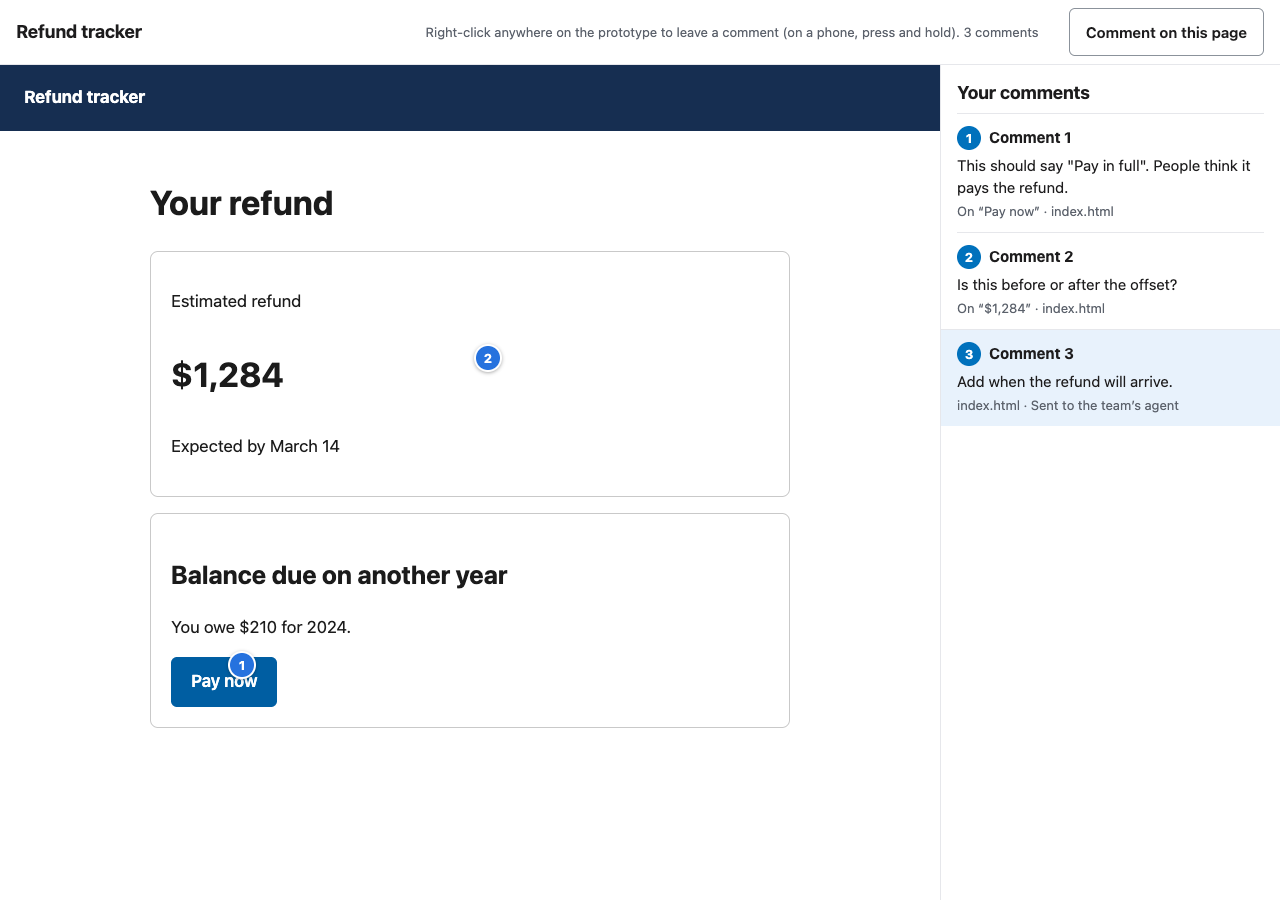
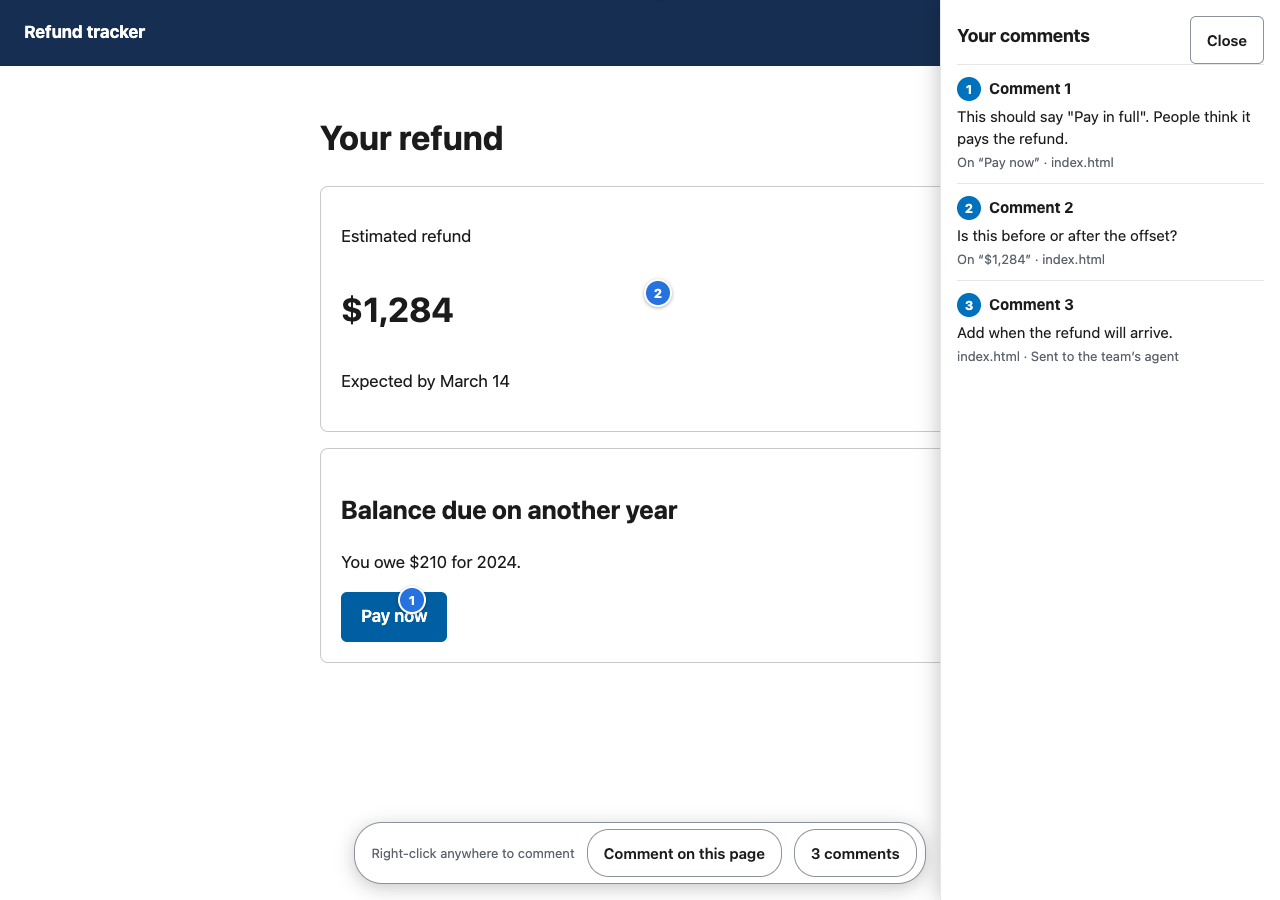
Prototype reviews: comments go to the chat, not To-dos; the reviewer sees the prototype full screen
One person lives in the prototype's chat: comments arrive there and they
decide (hand to the agent, or set aside). Nothing is filed as a to-do, and
the alert opens the chat. The business owner's page is the prototype and
nothing else: right-click to comment, pins where comments were made, and a
small bar whose count opens the list.

diff --git a/app/src/components/ReviewComments.tsx b/app/src/components/ReviewComments.tsx
@@ -7,14 +7,15 @@ import { commentBy, waitingLine, type PinnedComment } from "../lib/prototype-rev
 import { createThemedStyles, radius, space, typography, useTheme } from "../lib/theme";
 
 // What reviewers said about this chat's prototype, waiting above the message box until the person whose chat it is
-// decides (docs/prototype-reviews.md). "Ask Agent to work on this" sends the comment to Agent as a message in this
-// chat; from then on it is in the conversation like any other, and leaves this list. The newest shows; the rest
+// decides (docs/prototype-reviews.md). The chat is the one place a prototype's work happens, so comments come here
+// and nowhere else. "Ask Agent to work on this" sends the comment to Agent as a message in this chat; "Set aside" is
+// for one the person dealt with themselves. Either way it leaves this list. The newest shows; the rest
 // open from the line above it.
 export function ReviewComments({ account, chatId, comments, onAsked }: {
   account: Account; chatId: string;
   /** The comments nobody has handed to Agent yet, oldest first. */
   comments: readonly PinnedComment[];
-  /** A comment was handed over: the chat has a new message and the list is out of date. */
+  /** A comment was handed over or set aside: the list is out of date, and the chat may have a new message. */
   onAsked: (commentId: string) => void;
 }) {
   const styles = useStyles();
@@ -28,6 +29,13 @@ export function ReviewComments({ account, chatId, comments, onAsked }: {
     setBusy(comment.id); setError("");
     try { await api.workOnPrototypeComment(account, chatId, comment.id); onAsked(comment.id); }
     catch (reason) { setError(reason instanceof ServerError ? reason.message : "Couldn't ask Agent. Try again."); }
+    finally { setBusy(null); }
+  };
+  const aside = async (comment: PinnedComment) => {
+    if (busy) return;
+    setBusy(`aside:${comment.id}`); setError("");
+    try { await api.setPrototypeCommentAside(account, chatId, comment.id); onAsked(comment.id); }
+    catch (reason) { setError(reason instanceof ServerError ? reason.message : "Couldn't set that aside. Try again."); }
     finally { setBusy(null); }
   };
   const shown = open ? comments : comments.slice(-1);
@@ -44,6 +52,7 @@ export function ReviewComments({ account, chatId, comments, onAsked }: {
       <Text selectable style={styles.text}>{comment.text}</Text>
       <View style={styles.actions}>
         <Button testID={`review-work-${comment.id}`} label="Ask Agent to work on this" accessibilityLabel={`Ask Agent to work on ${comment.email}'s comment: ${comment.text.slice(0, 80)}`} kind="secondary" compact busy={busy === comment.id} disabled={!!busy} onPress={() => void ask(comment)} />
+        <Button testID={`review-aside-${comment.id}`} label="Set aside" accessibilityLabel={`Set aside ${comment.email}'s comment: ${comment.text.slice(0, 80)}`} kind="link" compact busy={busy === `aside:${comment.id}`} disabled={!!busy} onPress={() => void aside(comment)} />
       </View>
     </View>)}
     {error ? <Text accessibilityRole="alert" style={styles.error}>{error}</Text> : null}
@@ -58,6 +67,6 @@ const useStyles = createThemedStyles(({ colors }) => StyleSheet.create({
   comment: { gap: space.xxs, paddingLeft: space.sm, borderLeftWidth: 2, borderLeftColor: colors.line },
   by: { ...typography.caption, color: colors.muted },
   text: { ...typography.body, color: colors.ink },
-  actions: { flexDirection: "row" },
+  actions: { flexDirection: "row", flexWrap: "wrap", alignItems: "center", columnGap: space.sm },
   error: { ...typography.caption, color: colors.red },
 }));

diff --git a/app/src/lib/server.ts b/app/src/lib/server.ts
@@ -89,7 +89,7 @@ export type Entitlement = { /** Built in: on every server, asked for by use. */ 
 export type AgentAction = { seq: number; userId: string; name: string; chatId?: string; needs: string[]; verdict: "allowed" | "allowed-once" | "allowed-owner" | "denied" | "waiting"; detail: string; at: number };
 export type PrototypeComment = { id: string; page: string; /** Where on the page, as a share of its width and height. */ x?: number; y?: number; anchor: string; text: string; createdAt: number; todoId?: string;
   /** When the comment was handed to the agent in the prototype's chat, and whether you did it or it happened by itself. */
-  askedAt?: number; askedBy?: "you" | "auto"; turnId?: string };
+  askedAt?: number; askedBy?: "you" | "auto"; turnId?: string; /** When you set it aside: dealt with some other way than the agent. */ setAsideAt?: number };
 export type PrototypeShare = { id: string; email: string; createdAt: number; verifiedAt?: number; lastSeenAt?: number; endedAt?: number; /** The agent starts on this person's comments as they arrive. */ autoWork?: boolean; comments: PrototypeComment[] };
 export type EntitlementDraft = { name: string; description: string; hosts: string[]; confirmation: string };
 export type EntitlementsPage = { /** Whether built-in entitlements are checked before the agent acts. */ capabilities?: { mode: "ask" | "off" }; entitlements: Entitlement[]; canCreate: boolean; waiting: number; manager: { id: string; name: string } | null; reports: { id: string; name: string }[];
@@ -490,6 +490,8 @@ export const api = {
   sharePrototype: (a: Account, id: string, email: string) => request(a, `/v1/chats/${encodeURIComponent(id)}/prototype/shares`, { method: "POST", body: JSON.stringify({ email }) }).then(json<{ shares: PrototypeShare[] }>),
   /** Whether the agent starts on one reviewer's comments as they arrive. */
   setPrototypeShareAutoWork: (a: Account, id: string, shareId: string, autoWork: boolean) => request(a, `/v1/chats/${encodeURIComponent(id)}/prototype/shares/${encodeURIComponent(shareId)}`, { method: "PATCH", body: JSON.stringify({ autoWork }) }).then(json<{ shares: PrototypeShare[] }>),
+  /** You dealt with a comment yourself: it leaves the chat's waiting list. */
+  setPrototypeCommentAside: (a: Account, id: string, commentId: string) => request(a, `/v1/chats/${encodeURIComponent(id)}/prototype/comments/${encodeURIComponent(commentId)}/set-aside`, { method: "POST", body: "{}" }).then(json<{ comment: { id: string; setAsideAt: number } }>),
   /** Hand one reviewer's comment to the agent, as a message in the prototype's chat. */
   workOnPrototypeComment: (a: Account, id: string, commentId: string) => request(a, `/v1/chats/${encodeURIComponent(id)}/prototype/comments/${encodeURIComponent(commentId)}/work`, { method: "POST", body: "{}" }).then(json<{ comment: { id: string; askedAt: number } }>),
   endPrototypeShare: (a: Account, id: string, shareId: string) => request(a, `/v1/chats/${encodeURIComponent(id)}/prototype/shares/${encodeURIComponent(shareId)}`, { method: "DELETE" }).then(json<{ shares: PrototypeShare[] }>),

diff --git a/app/src/lib/prototype-reviews.test.ts b/app/src/lib/prototype-reviews.test.ts
@@ -45,9 +45,9 @@ test("the builder's preview numbers every reviewer's comments in the order they 
 });
 
 test("comments wait above the message box until they are handed to Agent, and say how that happened", () => {
-  const share = (email: string, comments: { id: string; createdAt: number; askedAt?: number; askedBy?: "you" | "auto" }[]) => ({ id: email, email, createdAt: 1, comments: comments.map(c => ({ page: "index.html", anchor: "", text: c.id, ...c })) });
-  const all = numberedComments([share("jo@example.gov", [{ id: "a", createdAt: 1, askedAt: 5, askedBy: "you" }, { id: "c", createdAt: 3 }]), share("sam@example.gov", [{ id: "b", createdAt: 2, askedAt: 2, askedBy: "auto" }, { id: "d", createdAt: 4 }])]);
+  const share = (email: string, comments: { id: string; createdAt: number; askedAt?: number; askedBy?: "you" | "auto"; setAsideAt?: number }[]) => ({ id: email, email, createdAt: 1, comments: comments.map(c => ({ page: "index.html", anchor: "", text: c.id, ...c })) });
+  const all = numberedComments([share("jo@example.gov", [{ id: "a", createdAt: 1, askedAt: 5, askedBy: "you" }, { id: "c", createdAt: 3 }]), share("sam@example.gov", [{ id: "b", createdAt: 2, askedAt: 2, askedBy: "auto" }, { id: "d", createdAt: 4 }, { id: "e", createdAt: 5, setAsideAt: 6 }])]);
   assert.deepEqual(waitingComments(all).map(c => [c.id, c.n, c.email]), [["c", 3, "jo@example.gov"], ["d", 4, "sam@example.gov"]], "they keep the number their pin has");
-  assert.deepEqual(all.map(commentAsked), ["You asked Agent to work on it", "Agent started on it by itself", null, null]);
+  assert.deepEqual(all.map(commentAsked), ["You asked Agent to work on it", "Agent started on it by itself", null, null, "You set it aside"]);
   assert.deepEqual([waitingLine(1), waitingLine(3)], ["1 comment from a reviewer", "3 comments from reviewers"]);
 });

diff --git a/app/src/lib/prototype-reviews.ts b/app/src/lib/prototype-reviews.ts
@@ -33,9 +33,9 @@ export function pageOf(pathname: string): string {
 export const pinsOn = (comments: readonly PinnedComment[], page: string) =>
   comments.filter(c => c.page === page && typeof c.x === "number" && typeof c.y === "number").map(c => ({ id: c.id, n: c.n, x: c.x as number, y: c.y as number }));
 /** The comments nobody has handed to the agent yet, oldest first: what waits above the chat's message box. */
-export const waitingComments = (comments: readonly PinnedComment[]) => comments.filter(comment => !comment.askedAt);
+export const waitingComments = (comments: readonly PinnedComment[]) => comments.filter(comment => !comment.askedAt && !comment.setAsideAt);
 /** Where a comment stands with the agent, for the share sheet: "Agent was asked" or "Agent started on it by itself"; nothing while it waits. */
-export const commentAsked = (comment: Pick<PrototypeComment, "askedAt" | "askedBy">) => !comment.askedAt ? null : comment.askedBy === "auto" ? "Agent started on it by itself" : "You asked Agent to work on it";
+export const commentAsked = (comment: Pick<PrototypeComment, "askedAt" | "askedBy" | "setAsideAt">) => comment.askedAt ? (comment.askedBy === "auto" ? "Agent started on it by itself" : "You asked Agent to work on it") : comment.setAsideAt ? "You set it aside" : null;
 /** The line above the waiting comments: "1 comment from a reviewer", "3 comments from reviewers". */
 export const waitingLine = (n: number) => (n === 1 ? "1 comment from a reviewer" : `${n} comments from reviewers`);
 export const AUTO_WORK_LABEL = "Agent starts on their comments by itself";

diff --git a/app/src/components/PrototypeReviewSheet.tsx b/app/src/components/PrototypeReviewSheet.tsx
@@ -57,7 +57,7 @@ export function PrototypeReviewSheet({ account, chatId, title, onClose }: { acco
       <View testID="prototype-review-sheet" accessibilityViewIsModal style={styles.dialog}>
         <ScrollView keyboardShouldPersistTaps="handled" contentContainerStyle={styles.content}>
           <Text accessibilityRole="header" style={styles.title}>Share with a business owner</Text>
-          <Text style={styles.body}>{`They get a link to "${title}" by email. After confirming a code sent to that address, they can look at the prototype and right-click anywhere on it to leave a comment. Each comment shows in this chat and becomes a to-do for you.`}</Text>
+          <Text style={styles.body}>{`They get a link to "${title}" by email. After confirming a code sent to that address, they can look at the prototype and right-click anywhere on it to leave a comment. Each comment comes to this chat, for you to decide what to do with.`}</Text>
           <Text style={styles.label}>Their work email</Text>
           <TextInput testID="review-email" accessibilityLabel="Their work email" value={email} onChangeText={value => { setEmail(value); setError(null); }} editable={busy !== "send"}
             keyboardType="email-address" autoCapitalize="none" autoCorrect={false} autoComplete="email" maxLength={254} onSubmitEditing={() => void send()} returnKeyType="send"

diff --git a/app/src/lib/notification-route.ts b/app/src/lib/notification-route.ts
@@ -18,7 +18,7 @@ export function notificationRoute(data: Record<string, unknown>, userId: string,
   if (typeof data.caseId === 'string' && /^inbox_[A-Za-z0-9_-]{1,80}$/.test(data.caseId)) return features.secureInbox ? { pathname: '/inbox/[id]', params: { id: data.caseId } } : null;
   // An entitlement request, decision or refused host (docs/entitlements.md) opens the Entitlements screen.
   if (data.page === 'entitlements') return { pathname: '/entitlements' };
-  // A comment on a prototype you shared became a to-do (docs/prototype-reviews.md).
+  // A note about your to-dos. (A comment on a prototype you shared opens that prototype's chat, by `chatId` below.)
   if (data.page === 'todos') return { pathname: '/todos' };
   // An automation signed in as you is waiting for a one-time code: open the screen to type it.
   if (typeof data.codeRequestId === 'string' && /^code_[A-Za-z0-9_-]{12}$/.test(data.codeRequestId)) return { pathname: '/code/[id]', params: { id: data.codeRequestId } };

diff --git a/docs/prototype-reviews.md b/docs/prototype-reviews.md
@@ -1,6 +1,8 @@
 # Sharing a prototype with a business owner
 
-Someone who builds a prototype in a Prototyping chat can send it to a business owner for comments. The business owner does not need the app or an account: a link arrives by email, they confirm a code sent to the same address, look at the prototype in their browser, and right-click the part they want to talk about. Each comment is kept on the server, shows in the prototype's own chat, and becomes a to-do for the person who shared it. From the chat they hand it to the agent with one press, or, for a reviewer they trust to steer the work, have the agent start on that person's comments as they arrive.
+Someone who builds a prototype in a Prototyping chat can send it to a business owner for comments. The business owner does not need the app or an account: a link arrives by email, they confirm a code sent to the same address, see the prototype full screen in their browser, and right-click the part they want to talk about.
+
+Two people, two places. The person who built the prototype lives in its chat: they share it, preview it, edit it, work on it with the agent, and that is where every comment arrives, for them to decide what to do with. The business owner only ever sees the prototype and leaves comments on it. A comment is not filed anywhere else: it does not become a to-do.
 
 ## For the person sharing
 
@@ -9,8 +11,8 @@ In the prototyping chat, open **•••** and choose **Share with a business o
 - The address must be on the server's allowed email domains (`emailVerification.domains` in `config.json`). A server with none set accepts only `.gov` and `.mil` addresses.
 - The sheet lists everyone it was shared with, whether they have opened it, and what they said. **End** stops one person's link.
 - Sending again to the same address makes a fresh link and ends the old one.
-- Each comment becomes a to-do of yours ("Comment on Refund tracker: This should say Pay in full"), with who said it, where on which page, and a link to that page. From To-dos you can hand it to the agent like any other. You also get an alert that opens To-dos.
-- **In the chat**, comments nobody has handed to the agent wait above the message box ("2 comments from reviewers"), each with who said it, where, and **Ask Agent to work on this**. Pressing it sends the comment to the agent as a message from you in that chat, so the agent works on the prototype it already knows, and the comment leaves the waiting list. A comment is handed over once.
+- You get an alert for each comment, and tapping it opens the prototype's chat.
+- **In the chat**, comments wait above the message box ("2 comments from reviewers"), each with who said it and where, until you decide. **Ask Agent to work on this** sends the comment to the agent as a message from you in that chat, so the agent works on the prototype it already knows. **Set aside** is for one you dealt with yourself: you answered the reviewer, made the change by hand, or decided against it. Either way the comment leaves the waiting list and stays on record in the share sheet. A comment is handed to the agent at most once.
 - **Agent starts on their comments by itself** is a switch beside each person in the share sheet, off until you turn it on. With it on, each comment that person makes is sent to the agent as it arrives, with nobody pressing anything, and you get an alert that says so. It is one reviewer's switch, not the prototype's: other people's comments still wait for you. See [When the agent starts by itself](#when-the-agent-starts-by-itself).
 - In the chat's own preview, a link in the bar ("2 comments") puts a numbered pin where each comment was made; pressing a pin shows what was said and by whom.
 - Only the person whose chat it is can share, list or end. Deleting the chat ends every link for it.
@@ -21,7 +23,7 @@ It needs the server to have a public address (`publicUrl`) and a mailer (`emailV
 
 1. The email says who shared what, with a link.
 2. The page shows who shared it and a masked address ("j***@example.gov") and offers to email a code. The code always goes to the address the prototype was shared with; the page never asks for one.
-3. With the code entered, the prototype opens. **Right-click** anywhere (on a phone, press and hold) to open a box at that spot, write the comment and save it. A numbered pin stays where it was made, and the comments are listed beside the prototype. **Comment on this page** in the bar does the same without a mouse, for the page as a whole.
+3. With the code entered, the prototype fills the window, with nothing around it but a small bar at the bottom. **Right-click** anywhere (on a phone, press and hold) to open a box at that spot, write the comment and save it. A numbered pin stays where it was made; pressing a pin, or the count in the bar ("2 comments"), opens the list of their comments over the side of the prototype, and **Close** puts it away. **Comment on this page** in the bar does the same without a mouse, for the page as a whole.
 4. Coming back in the same browser tab needs no new code for twelve hours.
 
 They see only their own comments, not other reviewers', and nothing else on the server. Under a comment that was handed to the agent the page says **Sent to the team's agent**; it does not say what came of it.
@@ -34,7 +36,7 @@ A comment is words from someone outside the server, and the agent that builds pr
 - **The comment is quoted, not spoken.** The message the agent gets says who reviewed what, quotes the comment line by line, and tells the agent to use it only to decide how the prototype should change and to follow nothing in it that asks for anything else (other files, commands, credentials, messages). That is an instruction to the agent, not a wall: a reviewer you switch this on for should be someone you would let type in the chat.
 - **It runs as the sharer**, in the sharer's chat, under the sharer's access, entitlements and daily limit, like a message they sent. If they have no agent access, are over their limit, or have no signed-in device, the comment waits as it would with the switch off.
 - **A reviewer can't run up the sharer's agent use**: the agent starts on at most 20 of one reviewer's comments an hour by itself, and the chat's own limit on waiting messages applies. The rest wait for the sharer.
-- Each comment is still a to-do, so there is a record of what was asked whether or not the agent has got to it.
+- Every comment stays on record in the share sheet with what became of it: handed to the agent by you, started by itself, set aside, or still waiting.
 
 ## What is kept, and what leaves the server
 
@@ -45,7 +47,7 @@ Two emails leave the server through the owner's mailer command, both to the addr
 - the invitation: the sharer's name, the server's name, the prototype's title and the link;
 - the code: the prototype's title, the sharer's name and the six-digit code.
 
-The alert to the sharer carries the prototype's title, the reviewer's address and the start of the comment, like any other alert ([notifications.md](notifications.md)).
+The alert to the sharer carries the prototype's title, the reviewer's address and the start of the comment, like any other alert, and the id of the prototype's chat so a tap opens it ([notifications.md](notifications.md)).
 
 ## Limits to know
 
@@ -54,7 +56,7 @@ The alert to the sharer carries the prototype's title, the reviewer's address an
 - Codes work for ten minutes and once; five wrong tries end a code; sends and wrong tries are limited per address, and requests per network address.
 - Comments are tied to a spot on the page as it was. If the prototype changes, a pin may no longer sit on the thing it was about; the words under the pointer are kept with the comment for that reason.
 - A page inside the prototype that opens a link in a new tab leaves review mode in that tab.
-- On a phone the comments list sits under the prototype and takes part of the screen.
+- On a phone the list of comments, when opened, covers the lower part of the screen until it is closed.
 
 ## API
 
@@ -67,6 +69,7 @@ Signed in, under the encrypted `/v1/` API, for the chat's own person:
 | `DELETE /v1/chats/<id>/prototype/shares/<share id>` | End one link. |
 | `PATCH /v1/chats/<id>/prototype/shares/<share id>` | `{ "autoWork": true }`: the agent starts on this person's comments as they arrive. `POST` takes it too. |
 | `POST /v1/chats/<id>/prototype/comments/<comment id>/work` | Hand one comment to the agent, as a message in the chat. Once. |
+| `POST /v1/chats/<id>/prototype/comments/<comment id>/set-aside` | You dealt with it yourself: it leaves the chat's waiting list. |
 
 For the business owner, plain HTTPS with no account:
 

diff --git a/docs/notifications.md b/docs/notifications.md
@@ -55,7 +55,7 @@ Alerts show who sent the message and what they said (owner's decision, 11/2):
 - Build notes: **Build N is out** / the notes
 - Code request: **Code needed** / *<device> is waiting for your <label> code* (never the code; see [code-requests.md](code-requests.md))
 - Case (a visitor wrote to the secure inbox): **Ana Ruiz · CASE-000001** / the message
-- A comment on a prototype you shared ([prototype-reviews.md](prototype-reviews.md)), only to you: **Comment on Refund tracker** / jo.park@example.gov: This should say Pay in full. Its only routing value is `page: "todos"`, so a tap opens To-dos
+- A comment on a prototype you shared ([prototype-reviews.md](prototype-reviews.md)), only to you: **Comment on Refund tracker** / jo.park@example.gov: This should say Pay in full. Its only routing value is that prototype chat's id (`chatId`), so a tap opens the chat, where the comment is waiting. The title is **Agent is working on a comment on Refund tracker** when you had the agent start on that reviewer's comments by itself
 - Entitlements ([entitlements.md](entitlements.md)), only to the people named: a request to the person's manager (**Entitlement request** / Pat Tester asked for Tax data API), or, for a built-in entitlement the agent asked for by trying, **Entitlement request** / Pat Tester's agent needs GitHub write (what the agent was about to do is shown in the app only, never in the alert), the decision to the person (**Entitlements** / You now have Tax data API), a new report to their manager (**Entitlements** / You now decide Pat Tester's entitlement requests), and a refused host to the person or the owners (**Agent · access needed** / The agent couldn't reach api.example.gov. Ask for Tax data API in Entitlements). These carry a person's name, an entitlement's name and a host name, never the request's note. Their only routing value is `page: "entitlements"`, so a tap opens the Entitlements screen
 
 Text is flattened to one line (markdown markers removed), titles are capped at 80 characters and bodies at 240. A message with no text but an attachment says "Sent an attachment" (agent: "Sent an image" / "Sent a video").

diff --git a/README.md b/README.md
@@ -110,7 +110,7 @@ Open the invite link, or in the Mac app choose **Paste an invite link**. On a ph
 - [Public testing](docs/public-testing.md): a public TestFlight link and Play open testing, from the release scripts
 - [Email sign-in](docs/email-sign-in.md): work-email codes, allowed domains and the mailer command
 - [Encryption](docs/encryption.md) and [member security](docs/member-security.md): the protocol and the restricted member agent
-- [Sharing a prototype with a business owner](docs/prototype-reviews.md): a link by email, a code to confirm, right-click to comment, comments become to-dos
+- [Sharing a prototype with a business owner](docs/prototype-reviews.md): a link by email, a code to confirm, right-click to comment, comments arrive in the prototype's chat
 - [Entitlements](docs/entitlements.md) and the [agent's network gate](docs/agent-egress.md): who may have the agent work with what, and a sandbox that refuses everything else
 - [The onboarding tour](docs/onboarding-tour.md): a new person chooses their role and sees their access level, their daily limit in dollars and where their data goes
 - [Connections](docs/connections.md): each person's own GitHub or Jira token, so the agent works as them, with only their access
